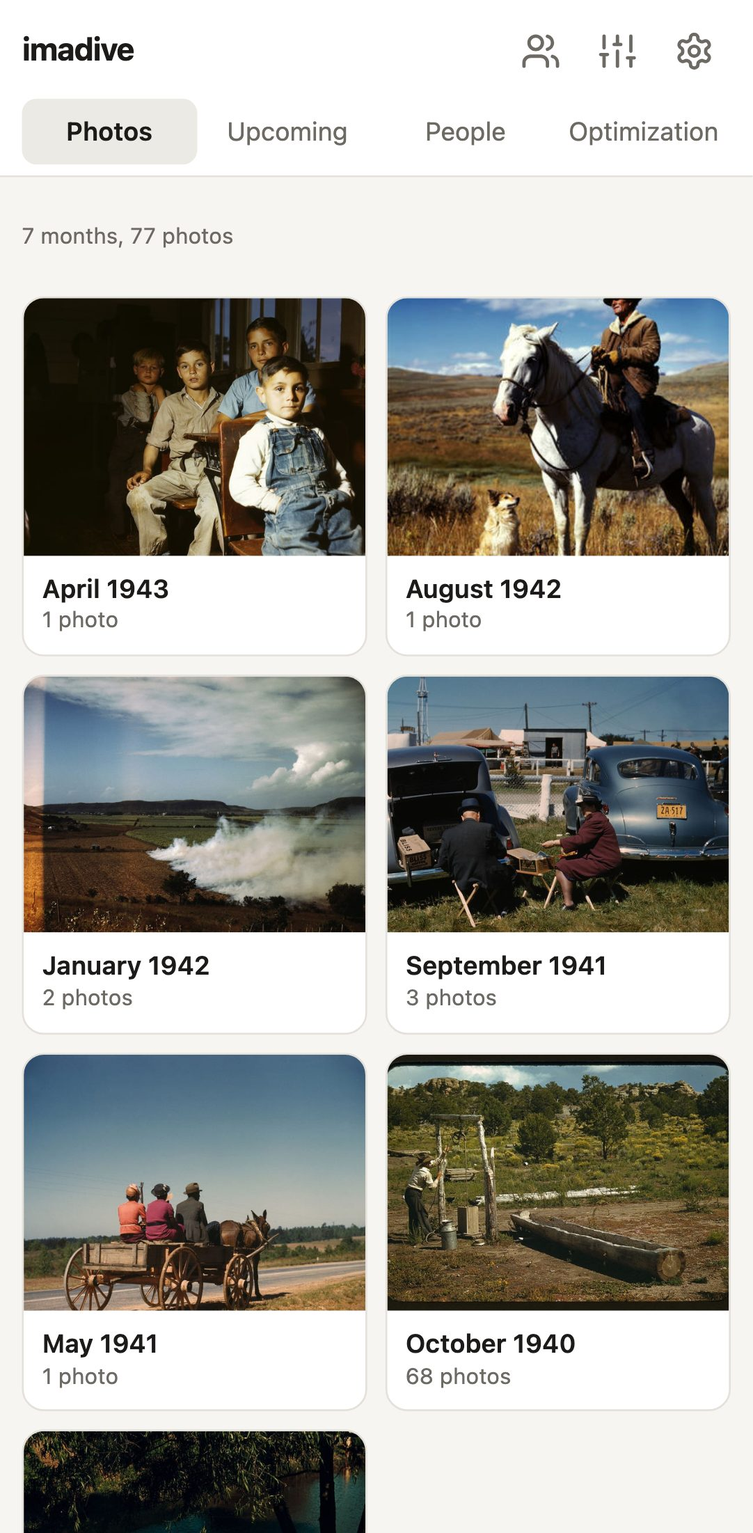
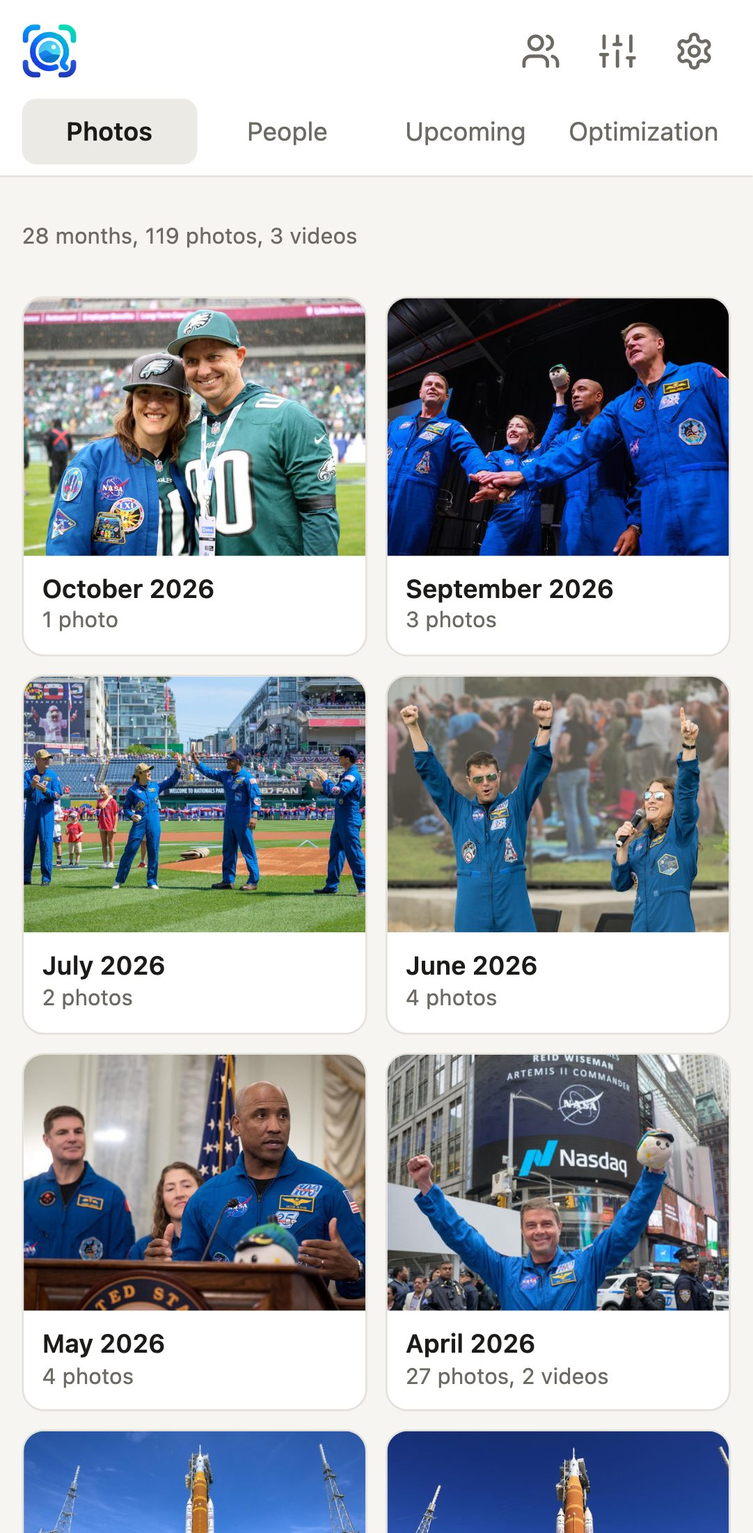
README screenshots of NASA's Artemis II mission
A new demo library: 119 photos and 3 short videos from the NASA Image and
Video Library, from the crew's training in 2023 to the flight around the
Moon and the tour after it, with dates, places and the four astronauts
named. Sources and how it was made in docs/screenshots/README.md.

The screenshot script opens the dates, grouping and order panel to group
(it moved there), and shows People with bigger cards.

diff --git a/docs/screenshots/README.md b/docs/screenshots/README.md
@@ -7,92 +7,146 @@ cd web/tests && npm ci && npx playwright install chromium
 node screenshots.mjs http://127.0.0.1:7878
 ```
 
-## The photos
+## The library
 
-77 colour photographs from the Farm Security Administration and Office of War Information collection of the US Library of Congress, taken from 1940 to 1943, most of them by Russell Lee in Pie Town, New Mexico. They are in the **public domain** (works of the US government, with no known restrictions on publication), copied from Wikimedia Commons at 1600 pixels wide.
+119 photos and 3 short videos of NASA's Artemis II mission, from the crew's training in 2023 to their flight around the Moon in April 2026 and the tour after it, taken from the [NASA Image and Video Library](https://images.nasa.gov). NASA's photos and videos are **not protected by copyright** in the United States (works of the US government). NASA asks to be credited, and that its pictures aren't used to suggest NASA endorses anything: it doesn't endorse Imadive. The crew are Reid Wiseman, Victor Glover and Christina Koch of NASA, and Jeremy Hansen of the Canadian Space Agency.
 
-To show the gallery as it is used, each photo was given EXIF data:
+The library lived in `/Users/Shared/Photos`, one folder per month and place. To show the gallery as it is used:
 
-- **Date**: the month of the Library of Congress record, on the 1st at noon (the records give no day or time).
-- **Place**: the coordinates of the town named in the record. The gallery shows the nearest place with more than 1,000 inhabitants, so Pie Town appears as Alamo.
-- **People**: the faces were found and grouped by the gallery itself. Four groups were named after the people the photos' captions name, after checking the faces: Jack Whinery and Mrs. Whinery, Jim Norris, and Mrs. Bill Stagg. The other groups are left unnamed.
+- **Photos** are 1600 pixels on their long side, named after their NASA title, and given EXIF data:
+  - **Date**: the day of NASA's record, from 11:00 in the record's order (the records give no time).
+  - **Place**: the coordinates of where the record says the photo was taken (Kennedy Space Center, Houston, Washington...). The gallery shows the nearest place with more than 1,000 inhabitants, so Kennedy Space Center appears as Merritt Island. Photos taken at sea or in Orion have no place, as a phone's would.
+- **Videos** are 12-second clips (H.264 and AAC, 1280 pixels wide), with their date and place in the QuickTime keys a phone writes. Their thumbnails were made by the page in Chrome, which plays H.264; the test browser doesn't.
+- **People**: the faces were found and grouped by the gallery itself. The four largest groups were named after the crew, checked against the photos whose NASA title names one astronaut. Six small groups of other people (2 photos each) were removed from the index, so that only the crew is shown.
 
-| Folder | Photo (Wikimedia Commons) | Photographer |
+## Videos
+
+| Folder | Video (NASA) | Clip |
 |---|---|---|
-| 1940/Pie Town | [Bill Stagg turning up his beans](https://commons.wikimedia.org/wiki/File:Bill_Stagg_turning_up_his_beans_1a34111v.jpg) | Russell Lee |
-| 1940/Pie Town | [Bill Stagg turning up pinto beans](https://commons.wikimedia.org/wiki/File:Bill_Stagg_turning_up_pinto_beans_1a34112v.jpg) | Russell Lee |
-| 1940/Pie Town | [Bill Stagg, homesteader, in front of his barn](https://commons.wikimedia.org/wiki/File:Bill_Stagg,_homesteader,_in_front_of_his_barn_1a34108v.jpg) | Russell Lee |
-| 1940/Pie Town | [Bill Stagg, homesteader, with pinto beans](https://commons.wikimedia.org/wiki/File:Bill_Stagg,_homesteader,_with_pinto_beans_1a34110v.jpg) | Russell Lee |
-| 1940/Pie Town | [Church at Pie Town, New Mexico](https://commons.wikimedia.org/wiki/File:Church_at_Pie_Town,_New_Mexico_1a34121v.jpg) | Russell Lee |
-| 1940/Pie Town | [Church, Pie Town](https://commons.wikimedia.org/wiki/File:Church,_Pie_Town_1a34114v.jpg) | Russell Lee |
-| 1940/Pie Town | [Crowd eating free barbeque dinner](https://commons.wikimedia.org/wiki/File:Crowd_eating_free_barbeque_dinner_1a34115v.jpg) | Russell Lee |
-| 1940/Pie Town | [Cutting the pies and cakes at the barbeque dinner](https://commons.wikimedia.org/wiki/File:Cutting_the_pies_and_cakes_at_the_barbeque_dinner_1a34137v.jpg) | Russell Lee |
-| 1940/Pie Town | [Driving calves into the corral for roping at the rodeo](https://commons.wikimedia.org/wiki/File:Driving_calves_into_the_corral_for_roping_at_the_rodeo_1a34156v.jpg) | Russell Lee |
-| 1940/Pie Town | [Dugout house of Faro Caudill, homesteader with Mt Allegro](https://commons.wikimedia.org/wiki/File:Dugout_house_of_Faro_Caudill,_homesteader_with_Mt._Allegro_1a34150v.jpg) | Russell Lee |
-| 1940/Pie Town | [Faro Caudill drawing water from his well](https://commons.wikimedia.org/wiki/File:Faro_Caudill_drawing_water_from_his_well_1a34103v.jpg) | Russell Lee |
-| 1940/Pie Town | [Faro and Doris Caudill, homesteaders](https://commons.wikimedia.org/wiki/File:Faro_and_Doris_Caudill,_homesteaders_1a34096v.jpg) | Russell Lee |
-| 1940/Pie Town | [Field of beans and farmstead of Bill Stagg, homesteader](https://commons.wikimedia.org/wiki/File:Field_of_beans_and_farmstead_of_Bill_Stagg,_homesteader_1a34158v.jpg) | Russell Lee |
-| 1940/Pie Town | [Filling station and garage at Pie Town](https://commons.wikimedia.org/wiki/File:Filling_station_and_garage_at_Pie_Town_1a34107v.jpg) | Russell Lee |
-| 1940/Pie Town | [Friends meeting at the Pie Town](https://commons.wikimedia.org/wiki/File:Friends_meeting_at_the_Pie_Town_1a34153v.jpg) | Russell Lee |
-| 1940/Pie Town | [Fruit wagon at the Pie Town, New Mexico Fair](https://commons.wikimedia.org/wiki/File:Fruit_wagon_at_the_Pie_Town,_New_Mexico_Fair_1a34116v.jpg) | Russell Lee |
-| 1940/Pie Town | [Fruit wagon at the Pie Town](https://commons.wikimedia.org/wiki/File:Fruit_wagon_at_the_Pie_Town_1a34123v.jpg) | Russell Lee |
-| 1940/Pie Town | [Garden adjacent to the dugout home of Jack Whinery, homesteader](https://commons.wikimedia.org/wiki/File:Garden_adjacent_to_the_dugout_home_of_Jack_Whinery,_homesteader,_1a34167v.jpg) | Russell Lee |
-| 1940/Pie Town | [Gathering corn in the field](https://commons.wikimedia.org/wiki/File:Gathering_corn_in_the_field_1a34131v.jpg) | Russell Lee |
-| 1940/Pie Town | [General Merchandise store, Main Street](https://commons.wikimedia.org/wiki/File:General_Merchandise_store,_Main_Street_1a34163v.jpg) | Russell Lee |
-| 1940/Pie Town | [Getting ready to serve the barbeque dinner](https://commons.wikimedia.org/wiki/File:Getting_ready_to_serve_the_barbeque_dinner_1a34145v.jpg) | Russell Lee |
-| 1940/Pie Town | [Grace was said before the barbeque was served](https://commons.wikimedia.org/wiki/File:Grace_was_said_before_the_barbeque_was_served_1a34144v.jpg) | Russell Lee |
-| 1940/Pie Town | [Group of homesteaders in front of the bean house](https://commons.wikimedia.org/wiki/File:Group_of_homesteaders_in_front_of_the_bean_house_1a34126v.jpg) | Russell Lee |
-| 1940/Pie Town | [Harvesting corn](https://commons.wikimedia.org/wiki/File:Harvesting_corn_1a34102v.jpg) | Russell Lee |
-| 1940/Pie Town | [Harvesting new corn from the field of Jim Norris 2](https://commons.wikimedia.org/wiki/File:Harvesting_new_corn_from_the_field_of_Jim_Norris_1a34139v.jpg) | Russell Lee |
-| 1940/Pie Town | [Harvesting new corn from the field of Jim Norris](https://commons.wikimedia.org/wiki/File:Harvesting_new_corn_from_the_field_of_Jim_Norris_1a34120v.jpg) | Russell Lee |
-| 1940/Pie Town | [Home of Jim Norris, homesteader](https://commons.wikimedia.org/wiki/File:Home_of_Jim_Norris,_homesteader_1a34097v.jpg) | Russell Lee |
-| 1940/Pie Town | [Homesteader and his children eating barbeque](https://commons.wikimedia.org/wiki/File:Homesteader_and_his_children_eating_barbeque_1a34141v.jpg) | Russell Lee |
-| 1940/Pie Town | [Homesteader feeding his daughter at the Pie Town](https://commons.wikimedia.org/wiki/File:Homesteader_feeding_his_daughter_at_the_Pie_Town_1a34142v.jpg) | Russell Lee |
-| 1940/Pie Town | [Homesteader feeding his daughter](https://commons.wikimedia.org/wiki/File:Homesteader_feeding_his_daughter_1a34129v.jpg) | Russell Lee |
-| 1940/Pie Town | [Initial pin souvenirs at the Pie Town](https://commons.wikimedia.org/wiki/File:Initial_pin_souvenirs_at_the_Pie_Town_1a34154v.jpg) | Russell Lee |
-| 1940/Pie Town | [Jack Whinery and Jim Norris, homesteaders](https://commons.wikimedia.org/wiki/File:Jack_Whinery_and_Jim_Norris,_homesteaders_1a34132v.jpg) | Russell Lee |
-| 1940/Pie Town | [Jack Whinery and his family, homesteaders](https://commons.wikimedia.org/wiki/File:Jack_Whinery_and_his_family,_homesteaders_1a34169v.jpg) | Russell Lee |
-| 1940/Pie Town | [Jack Whinery, homesteader, and his family](https://commons.wikimedia.org/wiki/File:Jack_Whinery,_homesteader,_and_his_family_1a34098v.jpg) | Russell Lee |
-| 1940/Pie Town | [Jack Whinery, homesteader, repairing fence which he built with slabs](https://commons.wikimedia.org/wiki/File:Jack_Whinery,_homesteader,_repairing_fence_which_he_built_with_slabs_1a34168v.jpg) | Russell Lee |
-| 1940/Pie Town | [Jack Whinery, homesteader, with his wife and the youngest of his five children](https://commons.wikimedia.org/wiki/File:Jack_Whinery,_homesteader,_with_his_wife_and_the_youngest_of_his_five_children_1a34170v.jpg) | Russell Lee |
-| 1940/Pie Town | [Jim Norris and wife, homesteaders, Pie Town, New Mexico](https://commons.wikimedia.org/wiki/File:Jim_Norris_and_wife,_homesteaders,_Pie_Town,_New_Mexico_(LOC_fsac.1a34109).jpg) | Russell Lee |
-| 1940/Pie Town | [Jim Norris, homesteader, cutting a head of cabbage](https://commons.wikimedia.org/wiki/File:Jim_Norris,_homesteader,_cutting_a_head_of_cabbage_1a34119v.jpg) | Russell Lee |
-| 1940/Pie Town | [Jim Norris, homesteader](https://commons.wikimedia.org/wiki/File:Jim_Norris,_homesteader_1a34135v.jpg) | Russell Lee |
-| 1940/Pie Town | [Les Thomas, homesteader](https://commons.wikimedia.org/wiki/File:Les_Thomas,_homesteader_1a34118v.jpg) | Russell Lee |
-| 1940/Pie Town | [Main Street, Pie Town](https://commons.wikimedia.org/wiki/File:Main_Street,_Pie_Town_1a34148v.jpg) | Russell Lee |
-| 1940/Pie Town | [Many automobiles were parked in the grove](https://commons.wikimedia.org/wiki/File:Many_automobiles_were_parked_in_the_grove_1a34128v.jpg) | Russell Lee |
-| 1940/Pie Town | [Men in front of outdoor fire](https://commons.wikimedia.org/wiki/File:Men_in_front_of_outdoor_fire_1a34127v.jpg) | Russell Lee |
-| 1940/Pie Town | [Men of the community of Pie Town](https://commons.wikimedia.org/wiki/File:Men_of_the_community_of_Pie_Town_1a34146v.jpg) | Russell Lee |
-| 1940/Pie Town | [Mr Leatherman, homesteader, coming out of his dugout home](https://commons.wikimedia.org/wiki/File:Mr._Leatherman,_homesteader,_coming_out_of_his_dugout_home_1a34165v.jpg) | Russell Lee |
-| 1940/Pie Town | [Mr Leatherman, homesteader, tying up cauliflower](https://commons.wikimedia.org/wiki/File:Mr._Leatherman,_homesteader,_tying_up_cauliflower_1a34100v.jpg) | Russell Lee |
-| 1940/Pie Town | [Mr Leatherman, homesteader, with his work burros](https://commons.wikimedia.org/wiki/File:Mr._Leatherman,_homesteader,_with_his_work_burros_1a34166v.jpg) | Russell Lee |
-| 1940/Pie Town | [Mrs Bill Stagg with state quilt which she made](https://commons.wikimedia.org/wiki/File:Mrs._Bill_Stagg_with_state_quilt_which_she_made_1a34106v.jpg) | Russell Lee |
-| 1940/Pie Town | [Mrs Bill Stagg with state quilt](https://commons.wikimedia.org/wiki/File:Mrs._Bill_Stagg_with_state_quilt_1a34161v.jpg) | Russell Lee |
-| 1940/Pie Town | [Mrs Norris with homegrown cabbage 2](https://commons.wikimedia.org/wiki/File:Mrs._Norris_with_homegrown_cabbage_1a34117v.jpg) | Russell Lee |
-| 1940/Pie Town | [Mrs Norris with homegrown cabbage](https://commons.wikimedia.org/wiki/File:Mrs._Norris_with_homegrown_cabbage_1a34099v.jpg) | Russell Lee |
-| 1940/Pie Town | [People at the Fair, Pie Town](https://commons.wikimedia.org/wiki/File:People_at_the_Fair,_Pie_Town_1a34136v.jpg) | Russell Lee |
-| 1940/Pie Town | [Pie Town, New Mexico](https://commons.wikimedia.org/wiki/File:Pie_Town,_New_Mexico_1a34160v.jpg) | Russell Lee |
-| 1940/Pie Town | [Pinto bean warehouse](https://commons.wikimedia.org/wiki/File:Pinto_bean_warehouse_1a34124v.jpg) | Russell Lee |
-| 1940/Pie Town | [Rodeo at the Pie Town 2](https://commons.wikimedia.org/wiki/File:Rodeo_at_the_Pie_Town_1a34134v.jpg) | Russell Lee |
-| 1940/Pie Town | [Rodeo at the Pie Town](https://commons.wikimedia.org/wiki/File:Rodeo_at_the_Pie_Town_1a34125v.jpg) | Russell Lee |
-| 1940/Pie Town | [Saying grace before the barbeque dinner](https://commons.wikimedia.org/wiki/File:Saying_grace_before_the_barbeque_dinner_1a34140v.jpg) | Russell Lee |
-| 1940/Pie Town | [School at Pie Town, New Mexico](https://commons.wikimedia.org/wiki/File:School_at_Pie_Town,_New_Mexico_1a34104v.jpg) | Russell Lee |
-| 1940/Pie Town | [School children singing, Pie Town 2](https://commons.wikimedia.org/wiki/File:School_children_singing,_Pie_Town_1a34152v.jpg) | Russell Lee |
-| 1940/Pie Town | [School children singing, Pie Town](https://commons.wikimedia.org/wiki/File:School_children_singing,_Pie_Town_1a34151v.jpg) | Russell Lee |
-| 1940/Pie Town | [Serving pinto beans at the Pie Town](https://commons.wikimedia.org/wiki/File:Serving_pinto_beans_at_the_Pie_Town_1a34138v.jpg) | Russell Lee |
-| 1940/Pie Town | [Serving up the barbeque at the Pie Town](https://commons.wikimedia.org/wiki/File:Serving_up_the_barbeque_at_the_Pie_Town_1a34147v.jpg) | Russell Lee |
-| 1940/Pie Town | [Son of Jim Norris, homesteader](https://commons.wikimedia.org/wiki/File:Son_of_Jim_Norris,_homesteader_1a34130v.jpg) | Russell Lee |
-| 1940/Pie Town | [Team pulling a car out of the mud](https://commons.wikimedia.org/wiki/File:Team_pulling_a_car_out_of_the_mud_1a34149v.jpg) | Russell Lee |
-| 1940/Pie Town | [The Faro Caudill eating dinner in their dugout](https://commons.wikimedia.org/wiki/File:The_Faro_Caudill_eating_dinner_in_their_dugout_1a34105v.jpg) | Russell Lee |
-| 1940/Pie Town | [The school at Pie Town, New Mexico](https://commons.wikimedia.org/wiki/File:The_school_at_Pie_Town,_New_Mexico_1a34143v.jpg) | Russell Lee |
-| 1940/Pie Town | [Tying a ribbon on a calf's tail](https://commons.wikimedia.org/wiki/File:Tying_a_ribbon_on_a_calf%27s_tail_1a34157v.jpg) | Russell Lee |
-| 1940/Pie Town | [Wife of Jim Norris with canned goods](https://commons.wikimedia.org/wiki/File:Wife_of_Jim_Norris_with_canned_goods_1a34122v.jpg) | Russell Lee |
-| 1940/Schriever | [Boys fishing in a bayou, Schriever, Louisiana](https://commons.wikimedia.org/wiki/File:Boys_fishing_in_a_bayou,_Schriever,_Louisiana_(LOC_fsac.1a34362).jpg) | Marion Post Wolcott |
-| 1941/Greene County | [Going to town on Saturday afternoon, Greene County, Georgia](https://commons.wikimedia.org/wiki/File:Going_to_town_on_Saturday_afternoon,_Greene_County,_Georgia_fsac.1a33874u.jpg) | Jack Delano |
-| 1941/Rutland | [At the Vermont state fair, Rutland](https://commons.wikimedia.org/wiki/File:At_the_Vermont_state_fair,_Rutland_fsac.1a33912u.jpg) | Jack Delano |
-| 1941/Rutland | [Barker at Vermont state fair](https://commons.wikimedia.org/wiki/File:Barker_at_Vermont_state_fair_fsac.1a33917u.jpg) | Jack Delano |
-| 1941/Rutland | [Vermont state fair Rutland](https://commons.wikimedia.org/wiki/File:Vermont_state_fair_Rutland_fsac.1a33915u.jpg) | Jack Delano |
-| 1942/Guanica | [Burning a field of sugar cane, vicinity of Guanica](https://commons.wikimedia.org/wiki/File:Burning_a_field_of_sugar_cane,_vicinity_of_Guanica_(LOC_fsac.1a34033).jpg) | Jack Delano |
-| 1942/Madison County | [Shepherd with horse and dog, Madison County, Montana](https://commons.wikimedia.org/wiki/File:Shepherd_with_horse_and_dog,_Madison_County,_Montana_fsac.1a35022u.jpg) | Russell Lee |
-| 1942/Yauco | [Federal housing Yauco Puerto Rico](https://commons.wikimedia.org/wiki/File:Federal_housing_Yauco_Puerto_Rico_fsac.1a34039u.jpg) | Jack Delano |
-| 1943/San Augustine | [Rural school children, San Augustine County, Texas](https://commons.wikimedia.org/wiki/File:Rural_school_children,_San_Augustine_County,_Texas_(LOC_fsac.1a35425).jpg) | John Vachon |
+| 2026/03 Kennedy Space Center | [Rollout from the VAB](https://images.nasa.gov/details/KSC-20260320-MH-GEB01-0001-Artemis_II_Rollout_For_Launch-M19827) | 12 seconds from 56 s |
+| 2026/04 Kennedy Space Center | [Launch slow motion](https://images.nasa.gov/details/KSC-04012026-C4829) | 12 seconds from 26 s |
+| 2026/04 At sea | [Splashdown](https://images.nasa.gov/details/KSC-20260410-MH-JBP01-0001-Artemis_II_Splashdown_GSS_Visual_60fps-M19183) | 12 seconds from 140 s |
+
+## Photos
+
+| Folder | Photo (NASA) | Photographer |
+|---|---|---|
+| 2023/03 Houston | [Artemis II crew portrait](https://images.nasa.gov/details/jsc2023e016432_alt2) | Josh Valcarcel – NASA JSC |
+| 2023/04 Houston | [Artemis II crew portrait](https://images.nasa.gov/details/jsc2023e016431_alt) | ROBERT MARKOWITZ  NASA-JSC |
+| 2023/05 Greenbelt | [Artemis II Crew at GSFC 1](https://images.nasa.gov/details/NHQ202305190040) | NASA/Joel Kowsky |
+| 2023/05 Greenbelt | [Artemis II Crew at GSFC 2](https://images.nasa.gov/details/NHQ202305190048) | NASA/Joel Kowsky |
+| 2023/05 Washington | [Artemis II Crew Media Availability 1](https://images.nasa.gov/details/NHQ202305180013) | NASA/Bill Ingalls |
+| 2023/05 Washington | [Artemis II Crew Media Availability 2](https://images.nasa.gov/details/NHQ202305180023) | NASA/Bill Ingalls |
+| 2023/05 Washington | [Artemis II Crew Media Availability 3](https://images.nasa.gov/details/NHQ202305180030) | NASA/Bill Ingalls |
+| 2023/05 Washington | [Artemis II Crew Senate Meet and Greet 1](https://images.nasa.gov/details/NHQ202305170009) | NASA/Bill Ingalls |
+| 2023/05 Washington | [Artemis II Crew Senate Meet and Greet 2](https://images.nasa.gov/details/NHQ202305170005) | NASA/Bill Ingalls |
+| 2023/05 Washington | [Artemis II Crew Senate Meet and Greet 3](https://images.nasa.gov/details/NHQ202305170003) | NASA/Bill Ingalls |
+| 2023/07 San Diego | [Artemis II Crew Visits Naval Base San Diego](https://images.nasa.gov/details/KSC-20230719-PH-JNS01_0001) | U.S. Navy Photo by Mass Communic |
+| 2023/08 Kennedy Space Center | [KSC Orion Media Day - Artemis II Crew 1](https://images.nasa.gov/details/KSC-20230808-PH-KLS02_0093) | NASA/Kim Shiflett |
+| 2023/08 Kennedy Space Center | [KSC Orion Media Day - Artemis II Crew 2](https://images.nasa.gov/details/KSC-20230808-PH-KLS02_0086) | NASA/Kim Shiflett |
+| 2023/08 Kennedy Space Center | [KSC Orion Media Day - Artemis II Crew 3](https://images.nasa.gov/details/KSC-20230808-PH-KLS02_0098) | NASA/Kim Shiflett |
+| 2023/08 Kennedy Space Center | [NASA Briefing with Artemis II Crew 1](https://images.nasa.gov/details/KSC-20230808-PH-KLS04_0115) | NASA/Kim Shiflett |
+| 2023/08 Kennedy Space Center | [NASA Briefing with Artemis II Crew 2](https://images.nasa.gov/details/KSC-20230808-PH-KLS04_0027) | NASA/Kim Shiflett |
+| 2023/08 Kennedy Space Center | [NASA Briefing with Artemis II Crew 3](https://images.nasa.gov/details/KSC-20230808-PH-KLS04_0014) | NASA/Kim Shiflett |
+| 2023/11 Huntsville | [ARTEMIS II CREW VISIT](https://images.nasa.gov/details/MSFC-202301280) | Charles Beason |
+| 2024/01 Houston | [Artemis II crew portrait 1](https://images.nasa.gov/details/jsc2024e010107) | Josh Valcarcel – NASA – John |
+| 2024/01 Houston | [Artemis II crew portrait 2](https://images.nasa.gov/details/jsc2024e009647) | Josh Valcarcel – NASA – John |
+| 2024/01 Houston | [Artemis II crew portrait 3](https://images.nasa.gov/details/jsc2024e009650) | Josh Valcarcel – NASA – John |
+| 2024/01 Houston | [Artemis II crew portrait 4](https://images.nasa.gov/details/jsc2024e010118) | Josh Valcarcel – NASA – John |
+| 2024/02 At sea | [Artemis II Orion Underway Recovery Test 11 URT-11 - Day 5 1](https://images.nasa.gov/details/KSC-20240225-PH-ILW01-0128) | NASA/Isaac Watson |
+| 2024/02 At sea | [Artemis II Orion Underway Recovery Test 11 URT-11 - Day 5 2](https://images.nasa.gov/details/KSC-20240225-PH-ILW01-0186) | NASA/Isaac Watson |
+| 2024/06 Washington | [Artemis II Astronauts Participate in Moon Tree Dedication Ceremo 1](https://images.nasa.gov/details/NHQ202406040011) | NASA/Aubrey Gemignani |
+| 2024/06 Washington | [Artemis II Astronauts Participate in Moon Tree Dedication Ceremo 2](https://images.nasa.gov/details/NHQ202406040012) | NASA/Aubrey Gemignani |
+| 2024/06 Washington | [Artemis II Astronauts Participate in Moon Tree Dedication Ceremo 3](https://images.nasa.gov/details/NHQ202406040022) | NASA/Aubrey Gemignani |
+| 2024/06 Washington | [Black Space Week 2024 at the NMAAHC 1](https://images.nasa.gov/details/NHQ202406170015) | NASA/Aubrey Gemignani |
+| 2024/06 Washington | [Black Space Week 2024 at the NMAAHC 2](https://images.nasa.gov/details/NHQ202406170017) | NASA/Aubrey Gemignani |
+| 2024/07 Iceland | [Artemis II Crew geology training in Iceland 1](https://images.nasa.gov/details/jsc2024e054663) | ROBERT MARKOWITZ  NASA-JSC |
+| 2024/07 Iceland | [Artemis II Crew geology training in Iceland 2](https://images.nasa.gov/details/jsc2024e055031) | ROBERT MARKOWITZ  NASA-JSC |
+| 2024/07 New Orleans | [NASA Astronaut Victor Glover Views Artemis II Rocket Stage at NASA Mic](https://images.nasa.gov/details/MAF_20240715_CS2_VictorGlover_MD_15) | NASA/Michael DeMocker |
+| 2024/09 Sandusky | [Orion Technical Visit and Artemis II All Hands](https://images.nasa.gov/details/GRC-2024-C-09996) | NASA/Sara Lowthian-Hanna |
+| 2024/11 Kennedy Space Center | [Artemis II Crew Visits KSC 1](https://images.nasa.gov/details/KSC-20241119-PH-JBS02_0162) | NASA/Ben Smegelsky |
+| 2024/11 Kennedy Space Center | [Artemis II Crew Visits KSC 2](https://images.nasa.gov/details/KSC-20241119-PH-JBS01_0063) | NASA/Ben Smegelsky |
+| 2024/11 Rockledge | [Artemis II Crew Imagery - Victor Glover at JP Donovan 1](https://images.nasa.gov/details/KSC-20241108-PH-JBS01_0065) | NASA/Ben Smegelsky |
+| 2024/11 Rockledge | [Artemis II Crew Imagery - Victor Glover at JP Donovan 2](https://images.nasa.gov/details/KSC-20241108-PH-JBS01_0075) | NASA/Ben Smegelsky |
+| 2024/12 Washington | [NASA Agencywide All Hands](https://images.nasa.gov/details/NHQ202412060028) | NASA/Bill Ingalls |
+| 2024/12 Washington | [NASA Artemis II Briefing](https://images.nasa.gov/details/NHQ202412050010) | NASA/Bill Ingalls |
+| 2025/01 Houston | [NASA astronaut and Artemis II mission specialist Christina Koch exits](https://images.nasa.gov/details/jsc2025e004089) | Mark Sowa - NASA - JSC |
+| 2025/01 Houston | [The Artemis II crew completing Post Insertion and Deorbit Preparation](https://images.nasa.gov/details/jsc2025e004086) | Mark Sowa - NASA - JSC |
+| 2025/03 At sea | [NASA Artemis Underway Recovery Test 12 1](https://images.nasa.gov/details/NHQ202503280064) | NASA/Joel Kowsky |
+| 2025/03 At sea | [NASA Artemis Underway Recovery Test 12 2](https://images.nasa.gov/details/NHQ202503280066) | NASA/Joel Kowsky |
+| 2025/03 At sea | [NASA Artemis Underway Recovery Test 12 3](https://images.nasa.gov/details/NHQ202503290025) | NASA/Joel Kowsky |
+| 2025/07 Kennedy Space Center | [Artemis II Suit Crew Test and CEIT 1](https://images.nasa.gov/details/KSC-20250731-PH-RNS01_0007) | NASA/Rad Sinyak |
+| 2025/07 Kennedy Space Center | [Artemis II Suit Crew Test and CEIT 2](https://images.nasa.gov/details/KSC-20250731-PH-RNS01_0003) | NASA/Rad Sinyak |
+| 2025/07 Kennedy Space Center | [Artemis II Suit Crew Test and CEIT 3](https://images.nasa.gov/details/KSC-20250731-PH-RNS01_0004) | NASA/Rad Sinyak |
+| 2025/08 Kennedy Space Center | [Artemis II Crew Suiting and Walkout 1](https://images.nasa.gov/details/KSC-20250811-PH-KLS01_0074) | NASA/Kim Shiflett |
+| 2025/08 Kennedy Space Center | [Artemis II Crew Suiting and Walkout 2](https://images.nasa.gov/details/KSC-20250811-PH-KLS01_0049) | NASA/Kim Shiflett |
+| 2025/08 Kennedy Space Center | [Artemis II Night Runs Dry Dress Rehearsals](https://images.nasa.gov/details/KSC-20250812-PH-KLS01_0106) | NASA/Kim Shiflett |
+| 2025/10 Kennedy Space Center | [Artemis II Orion Prep for Integration to SLS 1](https://images.nasa.gov/details/KSC-20251017-PH-AJN01_0063) | NASA/Amber Jean Notvest |
+| 2025/10 Kennedy Space Center | [Artemis II Orion Prep for Integration to SLS 2](https://images.nasa.gov/details/KSC-20251017-PH-AJN01_0060) | NASA/Amber Jean Notvest |
+| 2025/12 Kennedy Space Center | [Artemis Triage Site End to End Runs 1](https://images.nasa.gov/details/NHQ202512190020) | NASA/Joel Kowsky |
+| 2025/12 Kennedy Space Center | [Artemis Triage Site End to End Runs 2](https://images.nasa.gov/details/NHQ202512190033) | NASA/Joel Kowsky |
+| 2025/12 Kennedy Space Center | [Artemis Triage Site End to End Runs 3](https://images.nasa.gov/details/NHQ202512190055) | NASA/Joel Kowsky |
+| 2026/01 Kennedy Space Center | [Artemis II Rollout 1](https://images.nasa.gov/details/NHQ202601170106) | NASA/Joel Kowsky |
+| 2026/01 Kennedy Space Center | [Artemis II Rollout 2](https://images.nasa.gov/details/KSC-20260117-PH-KLS03_0204) | NASA/Kim Shiflett |
+| 2026/01 Kennedy Space Center | [Artemis II Rollout 3](https://images.nasa.gov/details/KSC-20260117-PH-KLS03_0016) | NASA/Kim Shiflett |
+| 2026/01 Kennedy Space Center | [Artemis II Rollout 4](https://images.nasa.gov/details/KSC-20260117-PH-KLS03_0026) | NASA/Kim Shiflett |
+| 2026/01 Kennedy Space Center | [Artemis II Sunrise](https://images.nasa.gov/details/KSC-20260128-PH-CSH01-0050) | NASA/Cory S Huston |
+| 2026/01 Kennedy Space Center | [Artemis II at Launch Pad 39B](https://images.nasa.gov/details/KSC-01282026-Artemis%20II_Moon%20Shots-12) | NASA/Brandon Hancock |
+| 2026/01 Kennedy Space Center | [Artemis II rollout 5](https://images.nasa.gov/details/NHQ20260117_admin_0006) | NASA/John Kraus |
+| 2026/01 Kennedy Space Center | [Artemis II](https://images.nasa.gov/details/KSC-20260117-PH-JBS01_0024) | NASA/Ben Smegelsky |
+| 2026/02 Kennedy Space Center | [Artemis II Preflight 1](https://images.nasa.gov/details/NHQ20260201_admin_0008) | NASA/John Kraus |
+| 2026/02 Kennedy Space Center | [Artemis II Preflight 2](https://images.nasa.gov/details/NHQ20260201_admin_0013) | NASA/John Kraus |
+| 2026/02 Kennedy Space Center | [Artemis II on Launch Pad 1](https://images.nasa.gov/details/KSC-20260210-PH-JBS01-0115) | NASA/Ben Smegelsky |
+| 2026/02 Kennedy Space Center | [Artemis II on Launch Pad 2](https://images.nasa.gov/details/KSC-20260210-PH-JBS01-0126) | NASA/Ben Smegelsky |
+| 2026/03 Kennedy Space Center | [Artemis II Crew Arrive At Kennedy Space Center 1](https://images.nasa.gov/details/AFRC2026-0064-13) | NASA/Jim Ross |
+| 2026/03 Kennedy Space Center | [Artemis II Crew Arrive At Kennedy Space Center 2](https://images.nasa.gov/details/AFRC2026-0064-06) | NASA/Jim Ross |
+| 2026/03 Kennedy Space Center | [Artemis II Crew Arrives at Kennedy](https://images.nasa.gov/details/NHQ20260327_admin_0003) | NASA/John Kraus |
+| 2026/03 Kennedy Space Center | [Artemis II Crew Zap The Wall and Patch at Walkout 1](https://images.nasa.gov/details/KSC-20260330-PH-KLS01_0017) | NASA/Kim Shiflett |
+| 2026/03 Kennedy Space Center | [Artemis II Crew Zap The Wall and Patch at Walkout 2](https://images.nasa.gov/details/KSC-20260330-PH-KLS01_0055) | NASA/Kim Shiflett |
+| 2026/03 Kennedy Space Center | [Artemis II Launch Crew Arrival at KSC 1](https://images.nasa.gov/details/KSC-20260327-PH-KLS01_0284) | NASA/Kim Shiflett |
+| 2026/03 Kennedy Space Center | [Artemis II Launch Crew Arrival at KSC 2](https://images.nasa.gov/details/KSC-20260327-PH-KLS01_0149) | NASA/Kim Shiflett |
+| 2026/03 Kennedy Space Center | [Artemis II Preflight 1](https://images.nasa.gov/details/NHQ202603300017) | NASA/Bill Ingalls |
+| 2026/03 Kennedy Space Center | [Artemis II Preflight 2](https://images.nasa.gov/details/NHQ202603300010) | NASA/Bill Ingalls |
+| 2026/03 Kennedy Space Center | [Artemis II Rollout for Launch](https://images.nasa.gov/details/KSC-20260320-PH-JBS01_0118) | NASA/Ben Smegelsky |
+| 2026/03 Titusville | [Artemis II Sunrise at Max Brewer Bridge](https://images.nasa.gov/details/KSC-20260324-PH-JBS01_0016) | NASA/Ben Smegelsky |
+| 2026/04 At sea | [Artemis II Crew Recovery 1](https://images.nasa.gov/details/JB5_0814) | NASA \ James Blair |
+| 2026/04 At sea | [Artemis II Crew Recovery 2](https://images.nasa.gov/details/JB5_0855) | NASA / James Blair |
+| 2026/04 Coronado | [Artemis II Recovery 1](https://images.nasa.gov/details/NHQ202604110106) | NASA/Keegan Barber |
+| 2026/04 Coronado | [Artemis II Recovery 2](https://images.nasa.gov/details/NHQ202604110109) | NASA/Keegan Barber |
+| 2026/04 Coronado | [Artemis II Recovery 3](https://images.nasa.gov/details/NHQ202604110107) | NASA/Keegan Barber |
+| 2026/04 Coronado | [Artemis II Recovery 4](https://images.nasa.gov/details/NHQ202604110108) | NASA/Keegan Barber |
+| 2026/04 Houston | [Artemis II Crew Return](https://images.nasa.gov/details/jsc2026e022292) | NASA/Bill Stafford |
+| 2026/04 Kennedy Space Center | [Artemis II Launch 3](https://images.nasa.gov/details/KSC-04012026-Artemis%20II_Launch-4) | NASA/Brandon Hancock |
+| 2026/04 Kennedy Space Center | [Artemis II Launch Crew Walkout 1](https://images.nasa.gov/details/NHQ20260401_admin_0007) | NASA/John Kraus |
+| 2026/04 Kennedy Space Center | [Artemis II Launch Crew Walkout 2](https://images.nasa.gov/details/NHQ20260401_admin_0006) | NASA/John Kraus |
+| 2026/04 Kennedy Space Center | [Artemis II Launch Crew Walkout 3](https://images.nasa.gov/details/NHQ20260401_admin_0001) | NASA/John Kraus |
+| 2026/04 Kennedy Space Center | [Artemis II Launch Crew Walkout 4](https://images.nasa.gov/details/NHQ20260401_admin_0003) | NASA/John Kraus |
+| 2026/04 Kennedy Space Center | [Artemis II Launch Day, Crew Walkout](https://images.nasa.gov/details/KSC-20260401-PH-KLS02_0139) | NASA/Kim Shiflett |
+| 2026/04 Kennedy Space Center | [Artemis II Walkout 1](https://images.nasa.gov/details/NHQ202604010020) | NASA/Aubrey Gemignani |
+| 2026/04 Kennedy Space Center | [Artemis II Walkout 2](https://images.nasa.gov/details/NHQ202604010021) | NASA/Aubrey Gemignani |
+| 2026/04 Kennedy Space Center | [Artemis II launch 1](https://images.nasa.gov/details/SLS_MAF_20260401_ArtemisIILaunch_05) | NASA/Michael DeMocker |
+| 2026/04 Kennedy Space Center | [Artemis II launch 2](https://images.nasa.gov/details/SLS_MAF_20260401_ArtemisIILaunch_07) | NASA/Michael DeMocker |
+| 2026/04 New York | [NASA Artemis II Crew Rings Nasdaq Closing Bell 1](https://images.nasa.gov/details/NHQ202604300030) | NASA/Bill Ingalls |
+| 2026/04 New York | [NASA Artemis II Crew Rings Nasdaq Closing Bell 2](https://images.nasa.gov/details/NHQ202604300022) | NASA/Bill Ingalls |
+| 2026/04 Orion | [Christina Koch Readies for Saliva Sample Collection](https://images.nasa.gov/details/art002e027803) | NASA |
+| 2026/04 Orion | [Final Flyby Preparations](https://images.nasa.gov/details/art002e009294) | NASA |
+| 2026/04 Orion | [Home, Seen from Orion](https://images.nasa.gov/details/art002e009007) | NASA |
+| 2026/04 Orion | [Lunar Flyby Observations  CSA astronaut Jeremy Hansen](https://images.nasa.gov/details/art002e016171) | NASA |
+| 2026/04 Orion | [Lunar Selfie](https://images.nasa.gov/details/art002e009296) | NASA |
+| 2026/04 Orion | [Moon Joy](https://images.nasa.gov/details/art002e013367) | NASA |
+| 2026/04 Orion | [Reid Wiseman Poses With Earth in View](https://images.nasa.gov/details/art002e041724) | NASA |
+| 2026/04 Orion | [Victor Glover Poses With Earth in View](https://images.nasa.gov/details/art002e041740) | NASA |
+| 2026/05 Washington | [Artemis II Crew on Capitol Hill 1](https://images.nasa.gov/details/NHQ202605120026) | NASA/Joel Kowsky |
+| 2026/05 Washington | [Artemis II Crew on Capitol Hill 2](https://images.nasa.gov/details/NHQ202605120024) | NASA/Joel Kowsky |
+| 2026/05 Washington | [Artemis II Crew on Capitol Hill 3](https://images.nasa.gov/details/NHQ202605120073) | NASA/Aubrey Gemignani |
+| 2026/05 Washington | [Artemis II Crew on Capitol Hill 4](https://images.nasa.gov/details/NHQ202605120074) | NASA/Aubrey Gemignani |
+| 2026/06 Houston | [Artemis II Employee Celebration Event 1](https://images.nasa.gov/details/jsc2026e397494) | Morgan Gridley NASA-JSC |
+| 2026/06 Houston | [Artemis II Employee Celebration Event 2](https://images.nasa.gov/details/jsc2026e396705) | James Blair - NASA - JSC |
+| 2026/06 Houston | [Artemis II Employee Celebration Event 3](https://images.nasa.gov/details/jsc2026e396751) | James Blair - NASA - JSC |
+| 2026/06 Houston | [Artemis II crew portrait](https://images.nasa.gov/details/jsc2026e392665) | Robert Markowitz |
+| 2026/07 Washington | [Artemis II Crew at Nationals Park 1](https://images.nasa.gov/details/NHQ202607040004) | NASA/Bill Ingalls |
+| 2026/07 Washington | [Artemis II Crew at Nationals Park 2](https://images.nasa.gov/details/NHQ202607040008) | NASA/Bill Ingalls |
+| 2026/09 Huntsville | [Artemis II Crew Visits Marshall 1](https://images.nasa.gov/details/130A4387-1) | NASA/Savannah Bullard |
+| 2026/09 Huntsville | [Artemis II Crew Visits Marshall 2](https://images.nasa.gov/details/130A4323-1) | NASA/Savannah Bullard |
+| 2026/09 Huntsville | [Artemis II Crew Visits Marshall 3](https://images.nasa.gov/details/130A4831-1) | NASA/Savannah Bullard |
+| 2026/10 Philadelphia | [NASAs Inspiration Tour at Lincoln Financial Field](https://images.nasa.gov/details/NHQ202610040009) | NASA/Thalia Patrinos |

diff --git a/README.md b/README.md
@@ -4,7 +4,7 @@ A fast local photo and video gallery written in Rust. Point it at your photo fol
 
 It comes as a desktop app for Windows and Linux, and as a command-line app that serves the gallery to your browser. It is free for personal and other non-commercial use, and its source code is available ([license](#license)).
 
-![The timeline: photos in a justified grid, with the people found in them in the sidebar](docs/screenshots/photos.jpg)
+![The timeline: photos and videos in a justified grid, with the people found in them in the sidebar](docs/screenshots/photos.jpg)
 
 <p>
 <img src="docs/screenshots/viewer.jpg" width="49%" alt="The viewer: a photo with its faces outlined and named, and its date, place and people beside it">
@@ -15,7 +15,7 @@ It comes as a desktop app for Windows and Linux, and as a command-line app that 
 <img src="docs/screenshots/phone.jpg" width="24%" alt="The gallery on a phone">
 </p>
 
-<sub>Photos: Library of Congress, FSA/OWI colour collection, 1940 to 1943, public domain ([about the screenshots](docs/screenshots/README.md)).</sub>
+<sub>Photos and videos: NASA, the Artemis II mission (2023 to 2026). NASA doesn't endorse Imadive ([about the screenshots](docs/screenshots/README.md)).</sub>
 
 ## Features
 

diff --git a/docs/maintainability-plan.md b/docs/maintainability-plan.md
@@ -439,7 +439,7 @@ Corrections on the way:
 - `cargo-deny` needed the Unlicense (through `reverse_geocoder`); CC-BY-4.0 is not a crate license here (GeoNames data), so it isn't listed.
 - The plan wanted the desktop build only for tags. A change in `src/` can break the desktop crate, which `ci.yml` can't build without the models, so pushes that touch Rust code or packaging still build it.
 
-README screenshots, done after phase 5: `web/tests/screenshots.mjs` takes them of a demo library of 77 public-domain colour photos from the Library of Congress (FSA/OWI, 1940 to 1943), described with their sources in `docs/screenshots/README.md`.
+README screenshots, done after phase 5: `web/tests/screenshots.mjs` takes them of a demo library, first 77 public-domain colour photos from the Library of Congress (FSA/OWI, 1940 to 1943), then (for 0.3, with videos) NASA photos and videos of the Artemis II mission, described with their sources in `docs/screenshots/README.md`.
 
 ### Phase 5: partly done
 
